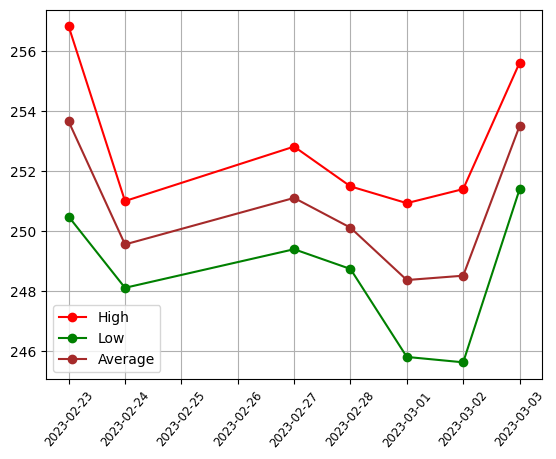
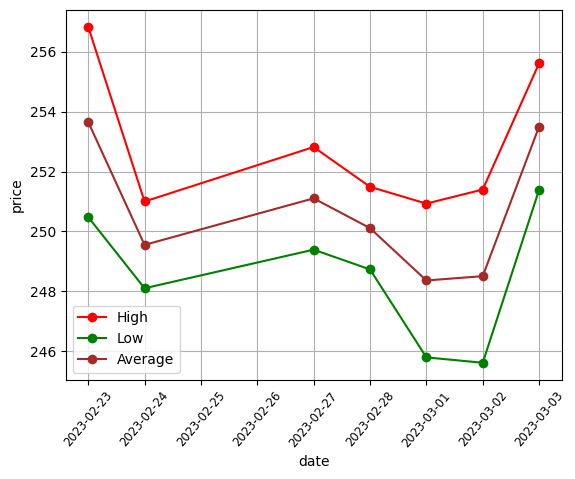
update

Changed region(s): [[0.0, 0.0, 0.9784, 0.976], [0.1835, 0.8845, 0.2446, 0.976], [0.2752, 0.9455, 0.3058, 0.976]]

diff --git a/update.py b/update.py
@@ -2,16 +2,29 @@ import yfinance as yf
 import pandas as pd
 from datetime import datetime, timedelta
 import matplotlib.pyplot as plt
+import os
 
+record_dir = "record"
+list_dir = "stock_list"
+
+#init
+if not os.path.exists(record_dir):
+    os.makedirs(record_dir)
+
+for filename in os.listdir(list_dir):
+    print(filename)
+
+exit(1)
 
 ticket = yf.Ticker("MSFT")
 hist = ticket.history(period="7d")
 hist['Average'] = hist[['High','Low']].mean(axis=1)
-print(hist)
 plt.plot(hist['High'], marker="o", color="red", label="High")
 plt.plot(hist['Low'], marker="o", color="green", label="Low")
 plt.plot(hist['Average'], marker="o", color="brown", label="Average")
 plt.xticks(rotation=50, fontsize = 'small')
+plt.ylabel('price')
+plt.xlabel('date')
 plt.legend()
 plt.grid()
 plt.savefig('price.png', bbox_inches='tight')
